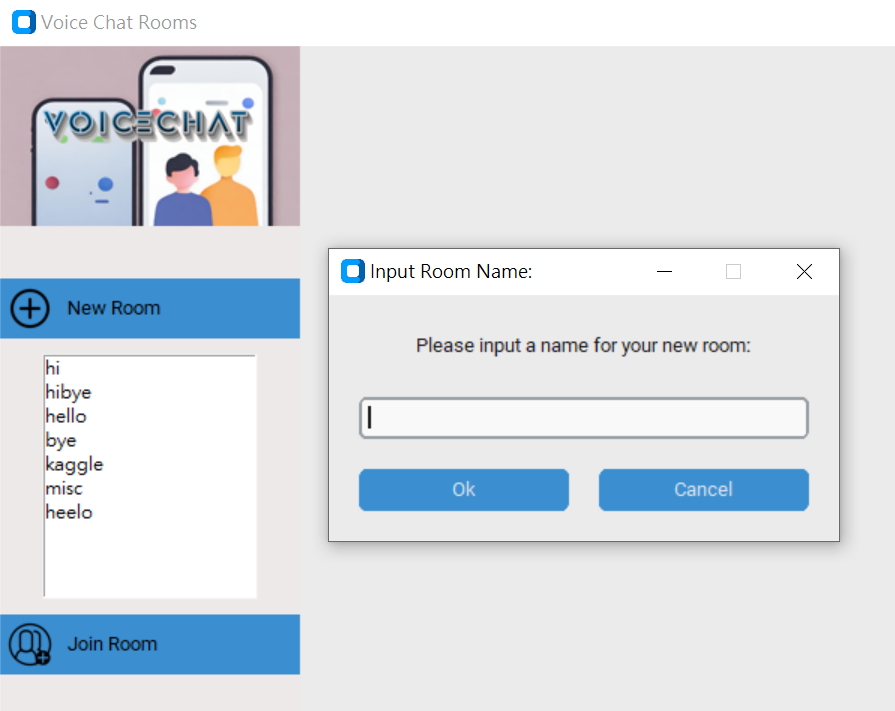
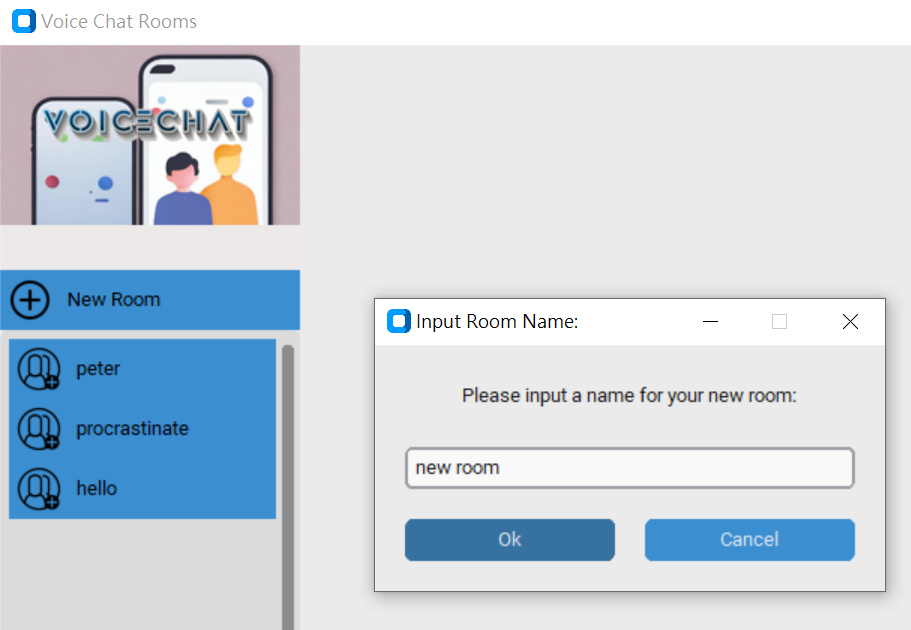
Updated readme

diff --git a/README.md b/README.md
@@ -45,7 +45,9 @@ Functionalities:
 
 > [!NOTE]
 > 1) Users can click on 'new room' button to enter the name of the room now.
-![alt text](image-1.png)
+> ![alt text](image-1.png)
+> 2) users can click on the room names to join the room directly now.
+> ![alt text](image.png)
 
 ## Logs
 
